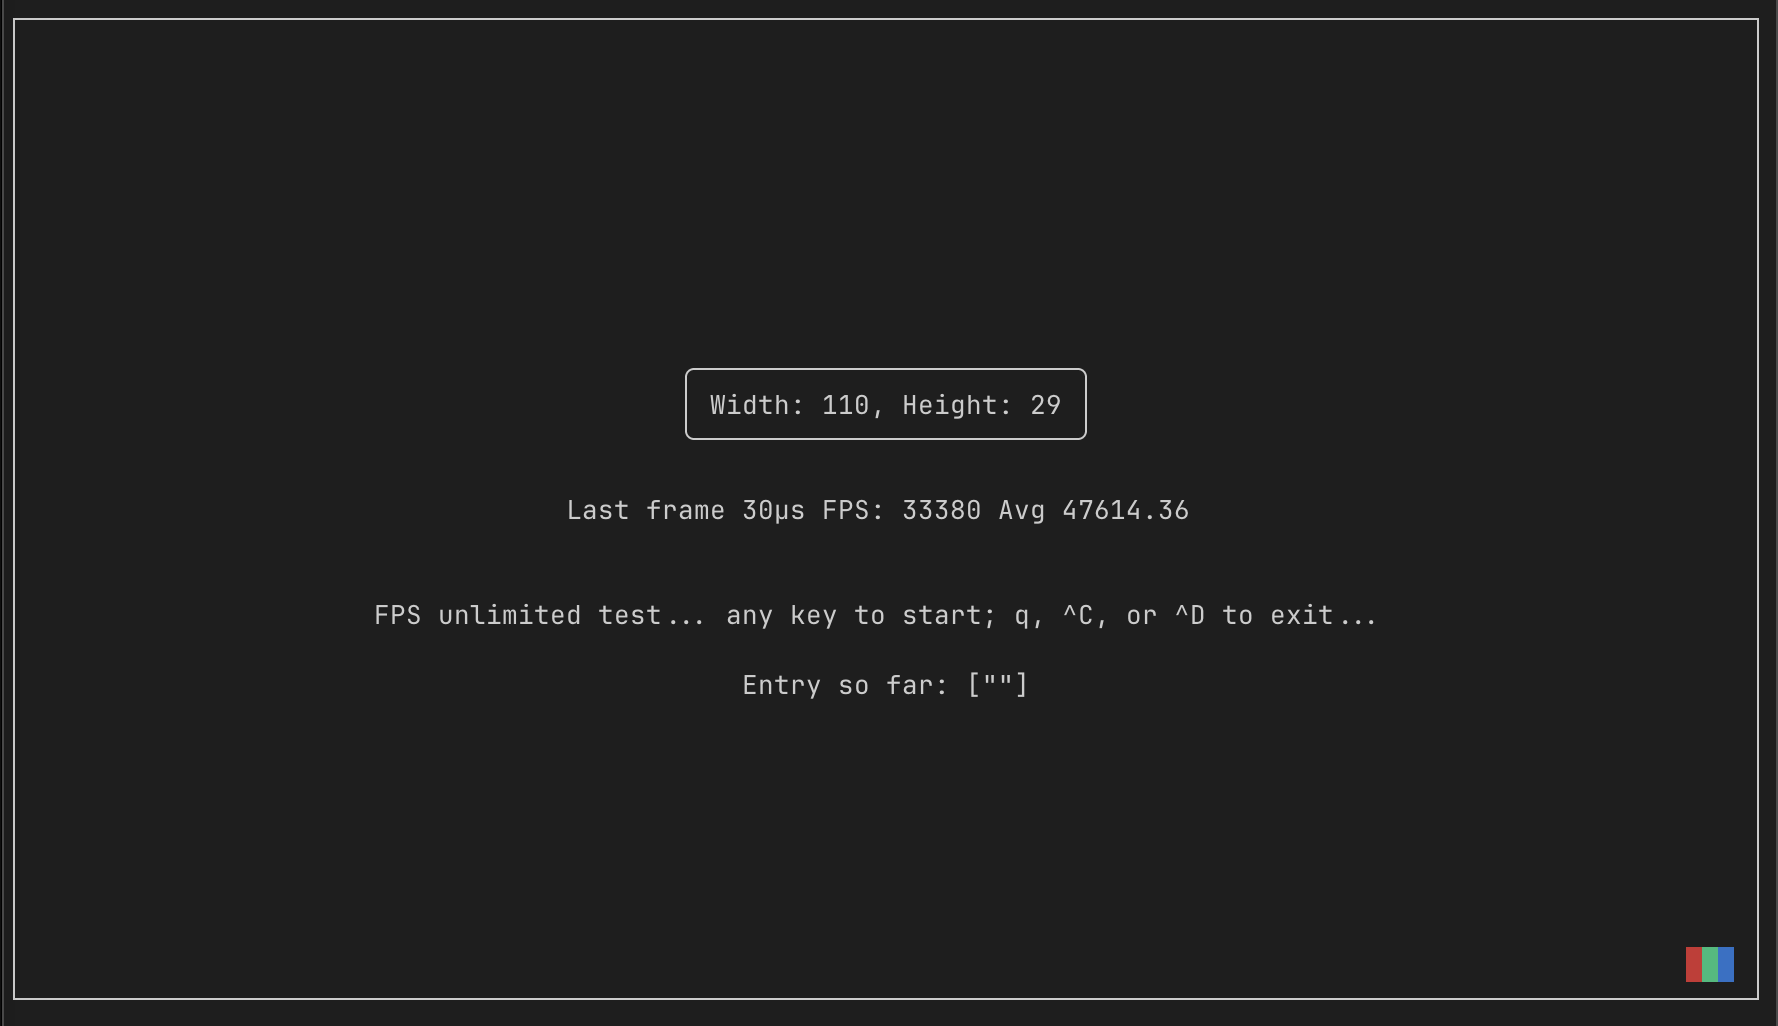
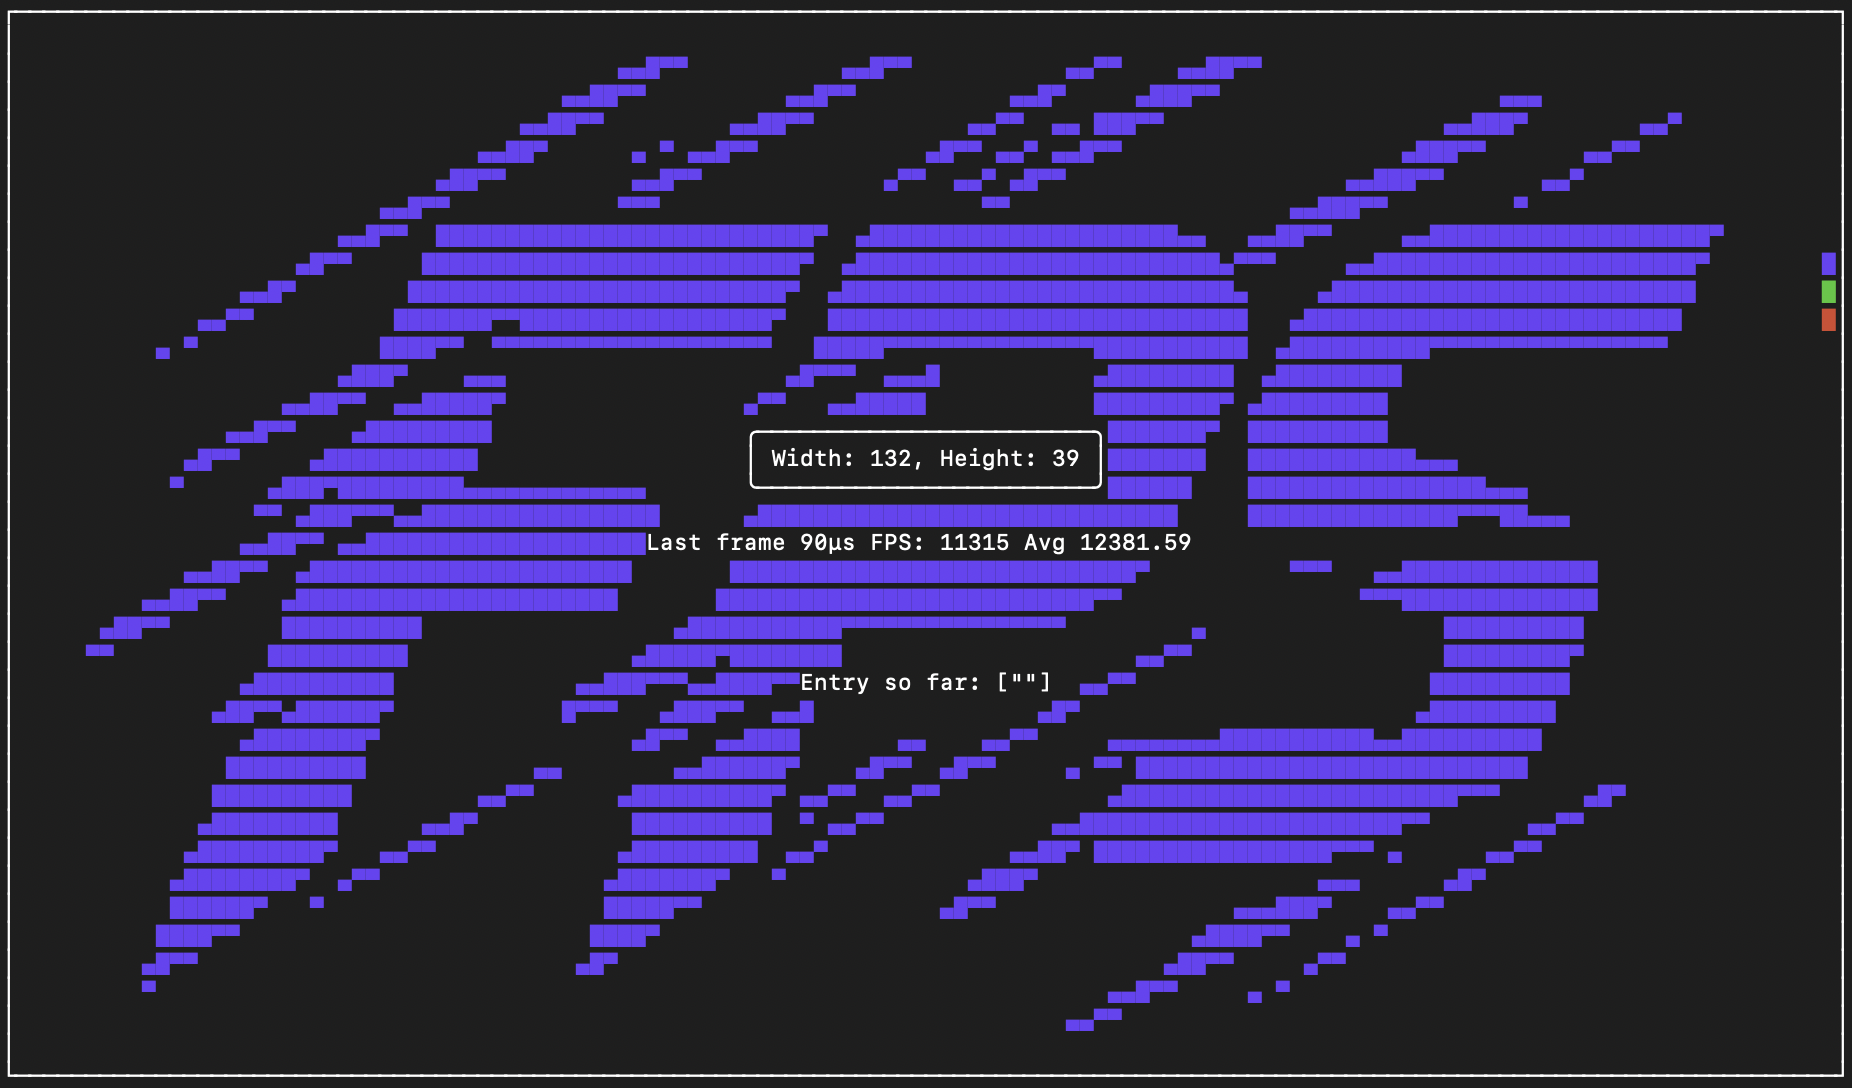
(Monochrome but double vertical resolution) Picture loading and demo of it into fps (#29)
* Ability to load monochrome images, add -image (and a default one) in background

* smaller/better default picture

* Update to build fps binary from merged workflows, readme update (#28)

* Trying to figure out why it doesn't build on tags even

* wasn't triggering on tags

* avoid dirty state

* missing Dockerfile for fps

* switch to released workflow, add readme

* fix releases link

* Update the sshot

* linter

* Don't clear eol

Changed region(s): [[0.0, 0.0, 1.0, 1.0], [0.6805, 0.5926, 0.7424, 0.6238], [0.0619, 0.3119, 0.0928, 0.3431]]

diff --git a/ansipixels/image.go b/ansipixels/image.go
@@ -1,0 +1,133 @@
+package ansipixels
+
+import (
+	"image"
+	"image/color"
+	_ "image/gif"  // Import GIF decoder
+	_ "image/jpeg" // Import JPEG decoder
+	_ "image/png"  // Import PNG decoder
+	"io"
+	"os"
+
+	"fortio.org/log"
+	"golang.org/x/image/draw"
+)
+
+type Image struct {
+	Width  int
+	Height int
+	Data   []byte
+}
+
+const (
+	FullPixel       = '█'
+	TopHalfPixel    = '▀'
+	BottomHalfPixel = '▄'
+)
+
+func (ap *AnsiPixels) DrawImage(sx, sy int, img *image.Gray, color string) error {
+	ap.WriteAtStr(sx, sy, color)
+	var err error
+	for y := img.Bounds().Min.Y; y < img.Bounds().Max.Y; y += 2 {
+		for x := img.Bounds().Min.X; x < img.Bounds().Max.X; x++ {
+			pixel1 := img.GrayAt(x, y).Y > 127
+			pixel2 := img.GrayAt(x, y+1).Y > 127
+			switch {
+			case pixel1 && pixel2:
+				_, _ = ap.Out.WriteRune(FullPixel)
+			case pixel1 && !pixel2:
+				_, _ = ap.Out.WriteRune(TopHalfPixel)
+			case !pixel1 && pixel2:
+				_, _ = ap.Out.WriteRune(BottomHalfPixel)
+			case !pixel1 && !pixel2:
+				_ = ap.Out.WriteByte(' ')
+			}
+		}
+		sy++
+		ap.MoveCursor(sx, sy)
+	}
+	_, err = ap.Out.WriteString("\033[0m") // reset color
+	return err
+}
+
+func grayScaleImage(rgbaImg *image.RGBA) *image.Gray {
+	grayImg := image.NewGray(rgbaImg.Bounds())
+	// Iterate through the pixels of the NRGBA image and convert to grayscale
+	for y := rgbaImg.Bounds().Min.Y; y < rgbaImg.Bounds().Max.Y; y++ {
+		for x := rgbaImg.Bounds().Min.X; x < rgbaImg.Bounds().Max.X; x++ {
+			rgbaColor := rgbaImg.RGBAAt(x, y)
+
+			// Convert to grayscale using the luminance formula
+			grayValue := uint8(0.299*float64(rgbaColor.R) + 0.587*float64(rgbaColor.G) + 0.114*float64(rgbaColor.B))
+
+			// Set the gray value in the destination Gray image
+			grayImg.SetGray(x, y, color.Gray{Y: grayValue})
+		}
+	}
+	return grayImg
+}
+
+func resizeAndCenter(img *image.Gray, maxW, maxH int) *image.Gray {
+	// Get original image dimensions
+	origBounds := img.Bounds()
+	origW := origBounds.Dx()
+	origH := origBounds.Dy()
+
+	// Calculate aspect ratio scaling
+	scaleW := float64(maxW) / float64(origW)
+	scaleH := float64(maxH) / float64(origH)
+	scale := min(scaleW, scaleH) // Choose the smallest scale to fit within bounds
+
+	// Calculate new dimensions while preserving aspect ratio
+	newW := int(float64(origW) * scale)
+	newH := int(float64(origH) * scale)
+
+	canvas := image.NewGray(image.Rect(0, 0, maxW, maxH)) // transparent background (aka black for ANSI)
+
+	// Calculate the offset to center the image
+	offsetX := (maxW - newW) / 2
+	offsetY := (maxH - newH) / 2
+
+	// Resize the image
+	resized := image.NewGray(image.Rect(0, 0, newW, newH))
+	draw.CatmullRom.Scale(resized, resized.Bounds(), img, origBounds, draw.Over, nil)
+	draw.Draw(canvas, image.Rect(offsetX, offsetY, offsetX+newW, offsetY+newH), resized, image.Point{}, draw.Over)
+	return canvas
+}
+
+func convertToRGBA(src image.Image) *image.RGBA {
+	if rgba, ok := src.(*image.RGBA); ok {
+		return rgba
+	}
+	bounds := src.Bounds()
+	dst := image.NewRGBA(bounds)
+	draw.Draw(dst, bounds, src, bounds.Min, draw.Src)
+	return dst
+}
+
+func (ap *AnsiPixels) ReadImage(path string) (*image.RGBA, error) {
+	file, err := os.Open(path)
+	if err != nil {
+		return nil, err
+	}
+	defer file.Close()
+	return ap.DecodeImage(file)
+}
+
+func (ap *AnsiPixels) DecodeImage(data io.Reader) (*image.RGBA, error) {
+	// Automatically detect and decode the image format
+	img, format, err := image.Decode(data)
+	if err != nil {
+		return nil, err
+	}
+	log.Debugf("Image format: %s", format)
+	return convertToRGBA(img), nil
+}
+
+func (ap *AnsiPixels) ShowImage(imgRGBA *image.RGBA, colorString string) error {
+	err := ap.GetSize()
+	if err != nil {
+		return err
+	}
+	return ap.DrawImage(1, 1, resizeAndCenter(grayScaleImage(imgRGBA), ap.W-2, 2*ap.H-2), colorString)
+}

diff --git a/ansipixels/fps/fps.go b/ansipixels/fps/fps.go
@@ -1,8 +1,11 @@
 package main
 
 import (
+	"bytes"
+	_ "embed"
 	"flag"
 	"fmt"
+	"image"
 	"os"
 	"strconv"
 	"time"
@@ -77,7 +80,11 @@ func animate(ap *ansipixels.AnsiPixels, frame uint) {
 	charAt(ap, pos-1, w, h, "\033[0m ")  // erase and reset color
 }
 
+//go:embed fps.jpg
+var fpsJpg []byte
+
 func Main() int {
+	imgFlag := flag.String("image", "", "Image file to display in monochrome in the background instead of the default one")
 	cli.MinArgs = 0
 	cli.MaxArgs = 1
 	cli.ArgsHelp = "[maxfps]"
@@ -112,6 +119,19 @@ func Main() int {
 		return log.FErrf("Error getting terminal size: %v", err)
 	}
 	ap.ClearScreen()
+	var background *image.RGBA
+	var err error
+	if *imgFlag == "" {
+		background, err = ap.DecodeImage(bytes.NewReader(fpsJpg))
+	} else {
+		background, err = ap.ReadImage(*imgFlag)
+	}
+	if err != nil {
+		return log.FErrf("Error reading image: %v", err)
+	}
+	if err = ap.ShowImage(background, "\033[34m"); err != nil {
+		return log.FErrf("Error showing image: %v", err)
+	}
 	drawBox(ap)
 	// FPS test
 	fps := 0.0
@@ -119,7 +139,7 @@ func Main() int {
 	// sleep := 1 * time.Second / time.Duration(fps)
 	ap.WriteCentered(ap.H/2+3, "FPS %s test... any key to start; q, ^C, or ^D to exit... ", fpsStr)
 	ap.Out.Flush()
-	_, err := ap.In.Read(buf[:])
+	_, err = ap.In.Read(buf[:])
 	if err != nil {
 		return log.FErrf("Error reading key: %v", err)
 	}
@@ -146,6 +166,7 @@ func Main() int {
 			if ap.IsResizeSignal(s) {
 				_ = ap.GetSize()
 				ap.ClearScreen()
+				_ = ap.ShowImage(background, "\033[34m")
 				drawBox(ap)
 				continue
 			}
@@ -154,13 +175,15 @@ func Main() int {
 			elapsed = time.Since(now)
 			fps = 1. / elapsed.Seconds()
 			now = time.Now()
-			ap.WriteAt(ap.W/2-20, ap.H/2, "Last frame %v FPS: %.0f Avg %.2f",
+			ap.WriteAt(ap.W/2-20, ap.H/2, " Last frame %v FPS: %.0f Avg %.2f ",
 				elapsed.Round(10*time.Microsecond), fps, float64(frames)/now.Sub(startTime).Seconds())
-			// Request cursor position (note that FPS is about the same without it, the Flush seems to be enough)
-			ap.ClearEndOfLine()
-			ap.MoveHorizontally(ap.W - 1)
-			_, _ = ap.Out.WriteString(ansipixels.Vertical)
+			/*
+				ap.ClearEndOfLine()
+				ap.MoveHorizontally(ap.W - 1)
+				_, _ = ap.Out.WriteString(ansipixels.Vertical)
+			*/
 			animate(ap, frames)
+			// Request cursor position (note that FPS is about the same without it, the Flush seems to be enough)
 			_, _, err = ap.ReadCursorPos()
 			if err != nil {
 				return log.FErrf("Error with cursor position request: %v", err)

diff --git a/ansipixels/ansipixels.go b/ansipixels/ansipixels.go
@@ -1,3 +1,4 @@
+// ansipixel provides terminal drawing and key reading abilities. fps/fps.go is an example of how to use it.
 package ansipixels
 
 import (
